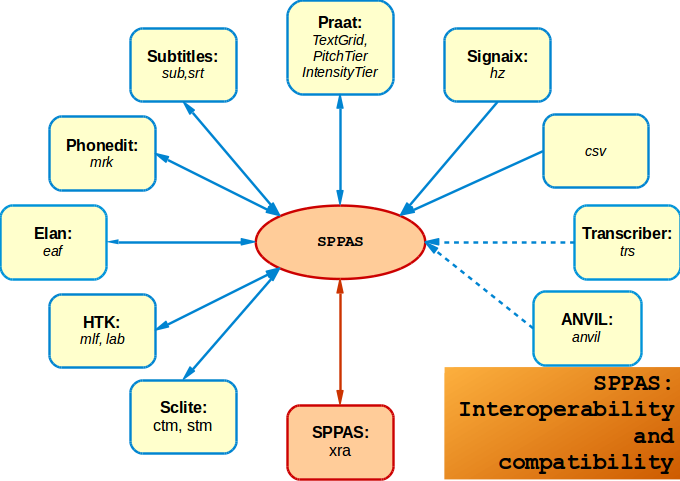
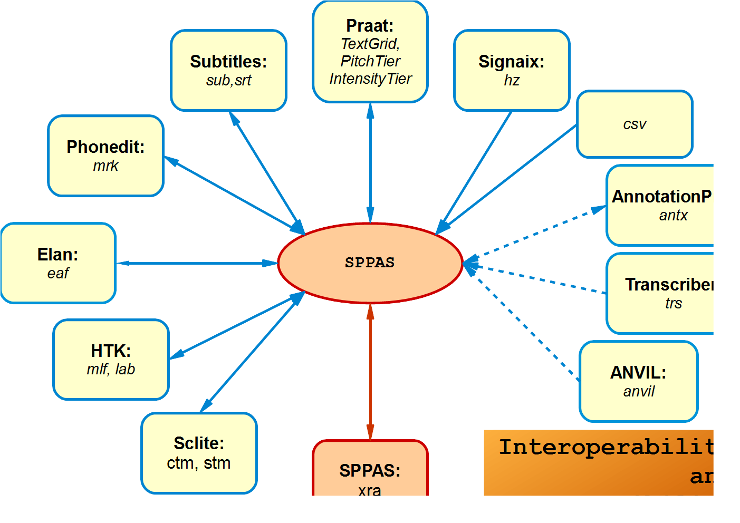
Updated doc for support of Annotation Pro antx files.

diff --git a/Packager/doc/05_CLI/52_CLI_annotations.md b/Packager/doc/05_CLI/52_CLI_annotations.md
@@ -26,7 +26,7 @@ optional arguments:
    -h, --help      show this help message and exit
    -w file|folder  Input wav file name, or folder
    -l lang         Input language, using iso639-3 code
-   -e extension    Output extension. One of: xra, textgrid, eaf, csv.
+   -e extension    Output extension. One of: xra, textgrid, eaf, csv, ...
    --momel         Activate Momel and INTSINT
    --ipu           Activate IPUs Segmentation
    --tok           Activate Tokenization

diff --git a/Packager/doc/06_scripting/65_scripts.md b/Packager/doc/06_scripting/65_scripts.md
@@ -93,18 +93,23 @@ Currently, accepted input file extensions are:
 
 * xra
 * csv, txt
-* TextGrid, PitchTier
+* TextGrid, PitchTier, IntensityTier
 * eaf
 * trs
 * mrk
+* sub, srt
+* hz
+* antx
 
 Possible output file extensions are:
 
 * xra
-* csv, txt, lab
+* csv, txt, lab, ctm, stm
 * TextGrid, PitchTier
 * eaf
 * mrk
+* sub, srt
+* antx
 
 >Practice:
 >Write a script to convert a TextGrid file into CSV

diff --git a/Packager/doc/SPPAS-for-dummies.md b/Packager/doc/SPPAS-for-dummies.md
@@ -78,6 +78,9 @@ France.
     - Excel/OpenOffice/R/...: csv
     - subtitles: sub, srt
 
+* Supported file formats to import/export (software, extension):
+    - AnnotationPro: antx
+
 * Supported file formats to import (software, extension):
     - Transcriber: trs
     - Anvil: anvil

diff --git a/Packager/doc/01_introduction/13_how_to_use.md b/Packager/doc/01_introduction/13_how_to_use.md
@@ -63,7 +63,11 @@ the expected extension:
 * Signaix: hz
 * Excel/OpenOffice/R: csv
 
-It can also import data from:
+It can also import and export data from:
+
+* Annotation Pro: antx
+
+And it can also import data from:
 
 * ANVIL: anvil
 * Transcriber: trs
